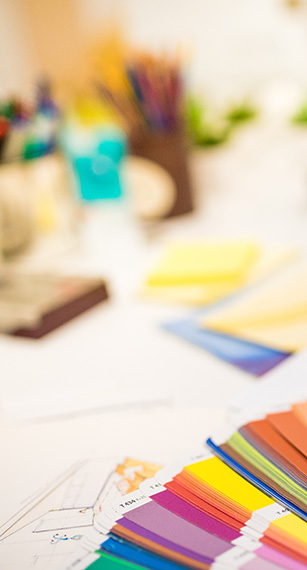
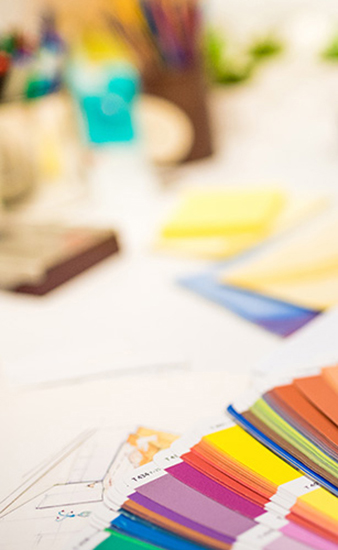
working on color and alignment

diff --git a/unit_3/index.html b/unit_3/index.html
@@ -13,14 +13,13 @@
 	<div class="container">
 		<div class="row firstSection">
 			<div class="col-sm-6 mainBlock" id="logoblock">
-				<!img id="backgroundimage1" src="images/logoboxbkg.jpg" border="0">
 				<img src="images/parris-design-wht.png" alt="Parris Design Logo" title="Parris Design Logo">
 				<h1>Digital-savvy design and creative problem solving</h1>
 				<b1>Strategic thinking and visual ideas that exceed expectations.</b1>
 				<h2>NADINE PARRIS</h2>
 			</div>
 			<div class="col-sm-3 mainBlock">
-				<img src="images/designdesk2.jpg" alt="Picture of Designer's Desktop" title="Designer's Desktop">
+				<img src="images/designdesk.jpg" alt="Picture of Designer's Desktop" title="Designer's Desktop">
 			</div>
 			<div class="col-sm-3 mainBlock">
 				<div class="row">
@@ -29,8 +28,8 @@
 						<h2><a href="#">ABOUT ME</a></h2>
 					</div>
 					<div class="col-xs-12 subBlock">
-						<h1>View my</h1>
-						<h2><a href="#">PORTFOLIO</a></h2>
+						<img src="images/print-pic.jpg" alt="Picture of Printed Items" title="Printed Pieces">
+
 					</div>
 				</div>
 			</div>
@@ -38,13 +37,31 @@
 	</div>
 
 
+	<div class="container">
+		<div class="row secondSection">
+			<div class="col-sm-3 secondBlock" id="logoblock">
+				<img src="images/aboutme.jpg" alt="Photo of Nadine Parris" title="Nadine Parris">
+			</div>
+			<div class="col-sm-3 secondBlock" id="viewPorfolio">
+				<h1>View my</h1>
+				<h2><a href="#">PORTFOLIO</a></h2>
+			</div>
+			<div class="col-sm-6 secondBlock">
+				<img src="images/computer.jpg" alt="Photo of a computer" title="Computer Photo">
+			</div>
+				</div>
+			</div>
+		</div>
+	</div>
+
+
+
+
 
 	<div class="container">
 		<div class="col-lg-12 quoteBlock" id="quoteBlock">
-			<div class="row secondSection">
-				<h1>What my clients are saying:</h1> 
-				<h5>"I can't express fully, my sincere appreciation, for all of your efforts to deliver what will be a central communication and collaboration platform for the Energy team."</h5>
-			</div>
+			<h1>What my clients are saying:</h1> 
+			<h5>"I can't express fully, my sincere appreciation, for all of your efforts to deliver what will be a central communication and collaboration platform for the Energy team."</h5>
 		</div>
 	</div>
 
@@ -54,21 +71,21 @@
 	<h6>DEDICATION & PASSION</h6>
 
 	<div class="container">
-		<div class="row thirdSection">
+		<div class="row forthSection">
 			<div class="col-sm-4 mainBlock" id="iconblock">
-				<img src="images/iconplaceholder.png" alt="Print Icon" title="Print Icon">
+				<img src="images/print-icon.png" alt="Print Icon" title="Print Icon">
 				<h4>Print</h4>
-				<b1>Nam consulatu expetendis ad, ut simul invidunt cum Eos facete maiorum corpora nereum</b1>
+				<b1>Highly creative print concepts and brand identity</b1>
 			</div>
 			<div class="col-sm-4 mainBlock" id="iconblock">
-				<img src="images/iconplaceholder.png" alt="Web Icon" title="Web Icon">
+				<img src="images/web-icon.png" alt="Web Icon" title="Web Icon">
 				<h4>Web</h4>
-				<b1>Nam consulatu expetendis ad, ut simul invidunt cum Eos facete maiorum corpora nereum</b1>
+				<b1>Site architecture, wireframes and web design</b1>
 			</div>
 			<div class="col-sm-4 mainBlock" id="iconblock">
-				<img src="images/iconplaceholder.png" alt="UX/UI Icon" title="UX/UI Icon">
+				<img src="images/ux-ui-icon.png" alt="UX/UI Icon" title="UX/UI Icon">
 				<h4>UX/UI</h4>
-				<b1>Nam consulatu expetendis ad, ut simul invidunt cum Eos facete maiorum corpora nereum</b1>
+				<b1>User testing and focus group facilitation</b1>
 			</div>
 		</div>
 	</div>

diff --git a/unit_3/css/style.css b/unit_3/css/style.css
@@ -3,11 +3,11 @@
 	margin: 0;
 }
 a {
-	color: #ffffff;
+	color: #fff;
 	text-decoration: none;
 }	
 nav a {
-	color: #999999;
+	color: #999;
 	margin-right: 10px;
 	font-family: "proxima-nova" sans-serif
 	font-weight: 700;
@@ -19,15 +19,16 @@ h1	{
 	font-size: 20px;
 	font-style: italic;
 	padding-top: 10px;
-	text-align: left;
-	font-color: #ffffff;
+	text-align: center;
+	font-color: #fff;
 }
 h2	{
 	font-family: "proxima-nova", sans-serif;;
 	font-size: 30px;
-	font-color: #ffffff;
+	font-color: #000;
 	font-weight: 700;
 	line-height: 0px;
+	text-align: center;
 }
 h3	{
 	font-family: "proxima-nova", sans-serif;;
@@ -47,7 +48,7 @@ h5	{
 	font-family: "proxima-nova", sans-serif;
 	font-size: 30px;
 	font-weight: 100;
-	font-color: #ffffff;
+	font-color: #fff;
 	text-align: left;
 	padding-left: 20;
 	padding-top: 20;
@@ -56,7 +57,7 @@ h5	{
 h6	{
 	font-family: "proxima-nova", sans-serif;;
 	font-size: 30px;
-	font-color: #ffffff;
+	font-color: #fff;
 	font-weight: 700;
 	line-height: 50px;
 	text-align: center;
@@ -67,9 +68,8 @@ b1	{
 	font-size: 16px;
 	font-weight: 300;
 	padding-bottom: 14px;
-	font-color: #222222;
+	font-color: #222;
 }
-
 .bodyContent {
 	padding-left: 20px;
 }
@@ -77,50 +77,51 @@ b1	{
 	padding-left:30px;
 }
 .mainBlock {
-	height: 400px;
+	height: 550px;
 	padding-top: 20px;
+	font-color: #fff;
 }
 .subBlock {
-	height: 200px;
+	height: 250px;
 	text-align: left;
-	padding-left: 20px;
-	padding-top: 20px;
 }
 .quoteBlock {
 	text-align: center;
-	background-color: #000000;
+	background-color: #606f83;
 	padding-bottom: 10px;
+	font-color: #fff;
 }
 .firstSection div:nth-child(1) {
-	background-color: #492943;
-	font-color: #ffffff;
+	background-color: #7acdc8;
+	font-color: #fff;
 }
 .firstSection div:nth-child(2) {
-	background-color: #999999;
 }
+
 .firstSection div:nth-child(3) {
-	background-color: #ffffff;
+	background-color: #fff;
 	height: 400px;
 }
 .firstSection div:nth-child(4) {
-	background-color: #000000;
+	background-color: #D2C85C;
 }
 .secondSection div:nth-child(4) {
+	background-color: #fff;
 }
 
 #logoblock {
 	text-align: center;
-	font-color: inherit;
+	font-color: #fff;
 }
 #quoteblock {
-	background-color: #000000;
-	font-color: #ffffff;
+	font-color: #fff;
 }
 #iconblock {
 	text-align: center;
 }
-#backgroundimage1 {
+#backgroundimage {
 	height: auto;
 	left: 0;
 	margin: 0;
 }
+
